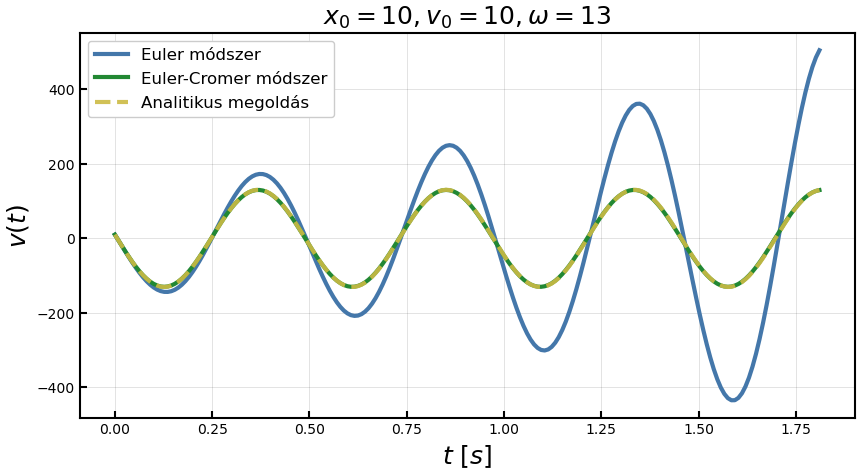
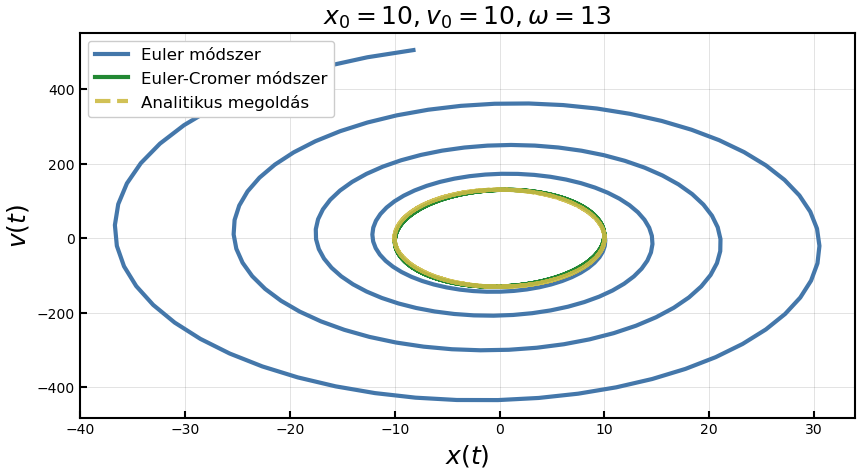
minor changes

diff --git a/1. Harmonic oscillator/src/visuals.py b/1. Harmonic oscillator/src/visuals.py
@@ -3,7 +3,7 @@
 # @Máte Szűcs, 2022                                                   #
 #######################################################################
 
-import os
+
 import numpy as np
 import matplotlib. pyplot as plt
 
@@ -63,13 +63,25 @@ def createPlots(input: str, outPath: str, x0: float=10., v0: float=10., omega: f
     plt.legend(loc='upper left')
     plt.savefig(f'{outPath}/kit_ido.png', dpi=100)
 
-    # Kitérés-sebesség
+    # Sebesség-idő
     plt.figure(figsize=(10, 5))
     plt.plot(tE, vE, label='Euler módszer')
     plt.plot(tEC, vEC, label='Euler-Cromer módszer')
     plt.plot(tE, [v(x0, v0, omega, i) for i in tE], '--', alpha=0.9, label='Analitikus megoldás')
 
     plt.xlabel('$t~[s]$', size=18)
+    plt.ylabel('$v(t)$', size=18)
+    plt.title('$x_0=10, v_0=10, \omega=13$', size=18)
+    plt.legend(loc='upper left')
+    plt.savefig(f'{outPath}/seb_ido.png', dpi=100)
+
+    # Kitérés-sebesség
+    plt.figure(figsize=(10, 5))
+    plt.plot(xE, vE, label='Euler módszer')
+    plt.plot(xEC, vEC, label='Euler-Cromer módszer')
+    plt.plot([x(x0, v0, omega, i) for i in tE], [v(x0, v0, omega, i) for i in tE], '--', alpha=0.9, label='Analitikus megoldás')
+
+    plt.xlabel('$x(t)$', size=18)
     plt.ylabel('$v(t)$', size=18)
     plt.title('$x_0=10, v_0=10, \omega=13$', size=18)
     plt.legend(loc='upper left')

diff --git a/1. Harmonic oscillator/src/main.cpp b/1. Harmonic oscillator/src/main.cpp
@@ -17,7 +17,7 @@ int main(int argc, char const *argv[]) {
         exit(EXIT_FAILURE);
     }
 
-    const double pi = 4 * atan(10);
+    constexpr double pi = 4 * atan(10);
     
     double x0 = std::stod(argv[1]);
     double v0 = std::stod(argv[2]);
